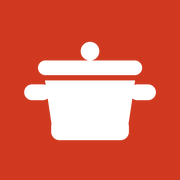
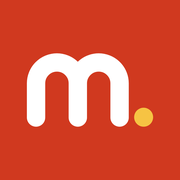
Icono nuevo y actualizaciones que llegan siempre
- Icono «m.»: m blanca redondeada y punto azafrán sobre rojo tomate,
  a juego con el diseño Mercado. Versión adaptable para Android.
- Modo sin conexión: con internet carga siempre la versión publicada
  (antes podía quedarse en una versión vieja o mezclar archivos de
  versiones distintas); sin internet usa la copia guardada.

Claude-Session: https://claude.ai/code/session_01QFk9ZRCjPEa5snoev13tRE

Changed region(s): [[0.1111, 0.2222, 0.8889, 0.8056]]

diff --git a/sw.js b/sw.js
@@ -1,7 +1,7 @@
 /* Menuse — service worker: la app y la lista funcionan sin conexión.
    Cada vez que cambies este archivo, sube el número de CACHE (v2, v3…).
    Si creas un archivo nuevo en js/ o css/, añádelo a la lista ASSETS. */
-const CACHE = "menuse-v7";
+const CACHE = "menuse-v8";
 const ASSETS = [
   "./",
   "./index.html",
@@ -47,6 +47,8 @@ self.addEventListener("install", e => {
   );
 });
 
+/* Al activarse una versión nueva se borra lo guardado de las anteriores
+   (la app detecta el cambio y ofrece «Recargar») */
 self.addEventListener("activate", e => {
   e.waitUntil(
     caches.keys()
@@ -55,44 +57,43 @@ self.addEventListener("activate", e => {
   );
 });
 
-function tellEveryone() {
-  pendingUpdate = true;
-  return self.clients.matchAll({ type: "window" })
-    .then(cs => cs.forEach(c => c.postMessage({ type: "update" })));
-}
-
-/* La app pregunta al arrancar: «¿hay algo nuevo?» */
-self.addEventListener("message", e => {
-  if (e.data && e.data.type === "hello" && pendingUpdate && e.source) {
-    e.source.postMessage({ type: "update" });
+/* Guarda una copia de lo que llega de internet */
+function keep(req, res) {
+  if (res && res.status === 200 && (res.type === "basic" || res.type === "cors")) {
+    const copy = res.clone();
+    caches.open(CACHE).then(c => c.put(req, copy)).catch(() => {});
   }
-});
-
-/* Firma de una respuesta: sirve para saber si un archivo ha cambiado */
-function stamp(res) {
-  return res.headers.get("etag") || res.headers.get("last-modified") || "";
+  return res;
 }
 
-/* Sirve lo guardado al instante y refresca por detrás.
-   Si un archivo de la app que llega de internet es distinto del guardado, avisa a la app. */
+/* Espera a internet como mucho unos segundos; si no llega, usa lo guardado */
+function withTimeout(p, ms) {
+  return new Promise((ok, ko) => {
+    const t = setTimeout(() => ko(new Error("lento")), ms);
+    p.then(r => { clearTimeout(t); ok(r); }, err => { clearTimeout(t); ko(err); });
+  });
+}
+
 self.addEventListener("fetch", e => {
   const req = e.request;
   if (req.method !== "GET") return;
-  /* archivos propios de la app (no las fuentes de Google): si cambian, hay versión nueva */
-  const isOwn = new URL(req.url).origin === self.location.origin;
-  const hitP = caches.match(req);
-  const netP = hitP.then(hit => fetch(req).then(res => ({ hit, res, copy: res.clone() })));
-  /* trabajo de fondo: guardar lo nuevo y, si la página cambió, avisar */
-  e.waitUntil(
-    netP.then(({ hit, res, copy }) => {
-      if (!(res && res.status === 200 && (res.type === "basic" || res.type === "cors"))) return;
-      const changed = isOwn && hit && stamp(hit) && stamp(res) && stamp(hit) !== stamp(res);
-      return caches.open(CACHE)
-        .then(c => c.put(req, copy))
-        .then(() => changed ? new Promise(r => setTimeout(r, 1500)).then(tellEveryone) : null);
-    }).catch(() => {})
-  );
+  const own = new URL(req.url).origin === self.location.origin;
+
+  if (own) {
+    /* Archivos de la app: primero internet (así nunca se mezclan versiones viejas y nuevas);
+       sin conexión, o si tarda más de 4 s, lo guardado. «no-cache» pregunta al servidor si
+       ha cambiado: si no, la respuesta es mínima. */
+    e.respondWith(
+      withTimeout(fetch(req, { cache: "no-cache" }), 4000)
+        .then(res => keep(req, res))
+        .catch(() => caches.match(req, { ignoreSearch: true })
+          .then(hit => hit || (req.mode === "navigate" ? caches.match("./index.html") : Response.error())))
+    );
+    return;
+  }
+
+  /* Tipografías de Google: no cambian, lo guardado primero */
   e.respondWith(
-    hitP.then(hit => hit || netP.then(x => x.res).catch(() => hit))
+    caches.match(req).then(hit => hit || fetch(req).then(res => keep(req, res)))
   );
 });
